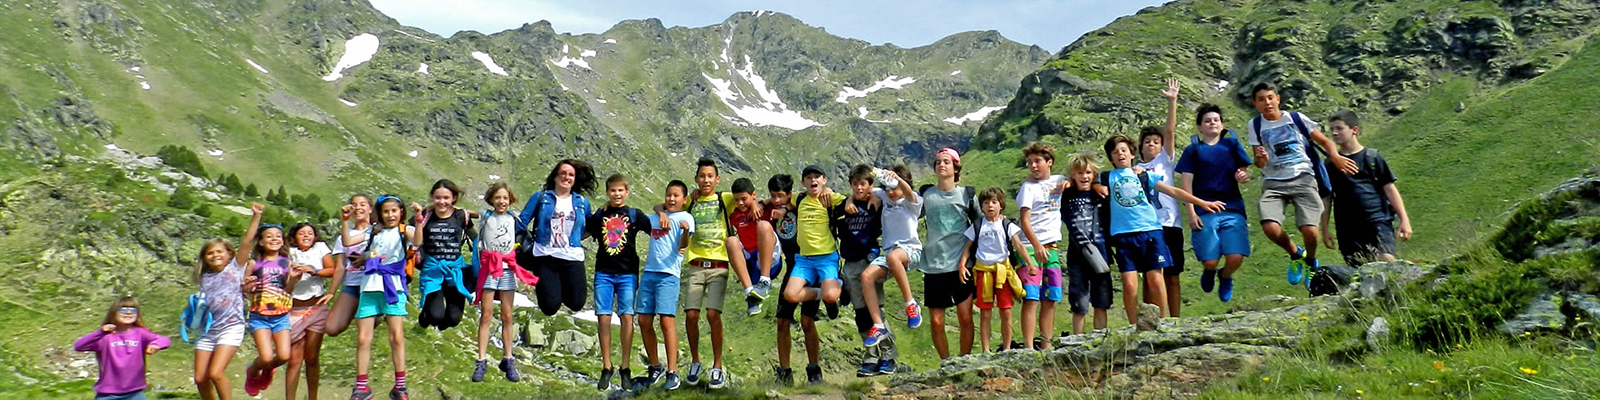
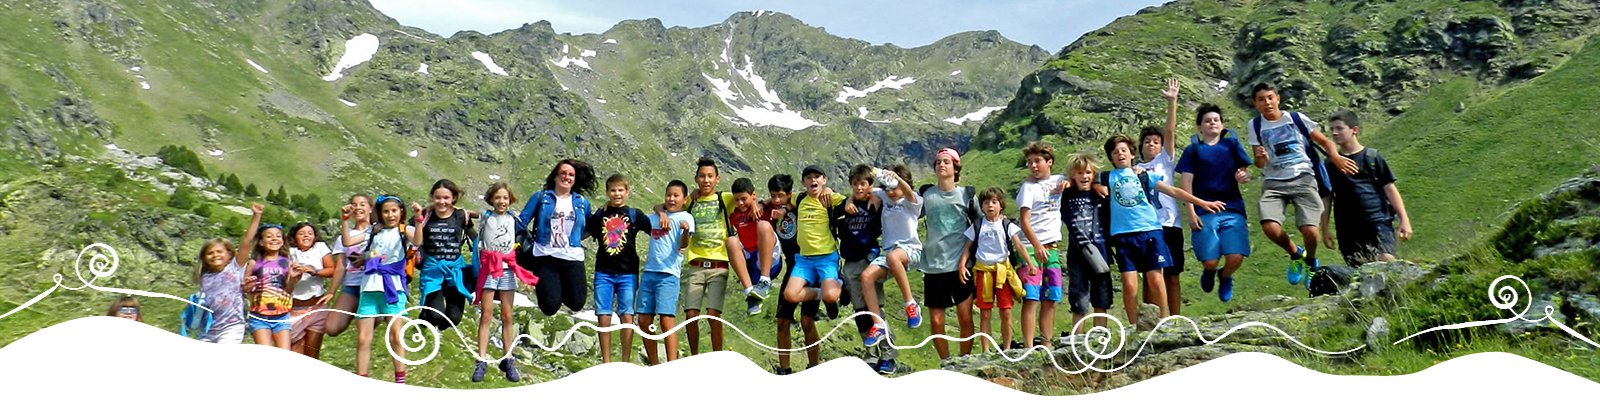
Arreglos frontend

diff --git a/public/frontend/css/main.css b/public/frontend/css/main.css
@@ -398,6 +398,50 @@ Author URL: http://shapebootstrap.net
 
 
 
+ @media (min-width: 768px) and (max-width: 992px) { 
+
+   .rulo_slider {
+    
+   
+    
+    top: 390px;
+    z-index: 2000;
+    
+   
+
+    position: absolute;
+    
+} 
+
+   
+  
+} 
+
+
+ @media (min-width: 993px) { 
+
+  
+
+   .rulo_slider {
+    
+   
+    
+    top: 322px;
+    z-index: 2000;
+    
+   
+
+    position: absolute;
+    
+}
+  
+} 
+
+
+
+
+
+
 
 @media(min-width:767px ){
 
@@ -414,7 +458,17 @@ font-size:60px;
 .video-section h3{
 font-size: 25px;
 
+
 }
+
+
+
+
+
+
+
+
+
   
 
 
@@ -451,10 +505,38 @@ font-size: 25px;
 
 
 
+
+
+
     
   
  
 }
+
+@media (min-width:555px){
+  .sliderTitle2{
+      font-size: 60px;
+  }
+
+  .sliderTitle3{
+      font-size: 45px;
+  }
+}
+
+
+@media (max-width:554px){
+  .sliderTitle2{
+      font-size: 35px;
+  }
+
+  .sliderTitle3{
+      font-size: 35px;
+  }
+}
+
+
+
+
 
 @media(max-width:550px ){	
  
@@ -463,6 +545,8 @@ font-size: 25px;
 .redessocial{
   display: none;
 }
+
+
 
   .video-section h1{
 font-size:45px;
@@ -474,7 +558,27 @@ font-size: 18px;
 }
 
 
+
+
+
    
+
+    
+  
+ 
+}
+
+
+@media(max-width:767px ){	/* este vale */
+ .rulo_slider {
+
+  position: relative;
+    top: -210px;
+    z-index: 4;
+
+}
+
+
 
     
   
@@ -2418,19 +2522,54 @@ margin: 0px auto 15px;
     -moz-text-shadow: 1px 1px 1px #000;
     }
 
+    .sliderTitle2 {
+    position: relative;
+    top: -280px;
+    z-index: 4;
+    padding-left: 50px;
+    padding-top: 25px;
+    margin: 0 auto;
+
+    pointer-events: none;
+    font-family: BreePeruWeb,Arial;
+
+    color:#fff;
+    font-weight:bold;
+    
+    text-shadow: 3px 3px 3px #000;
+    -webkit-text-shadow: 1px 1px 1px #000;
+    -moz-text-shadow: 1px 1px 1px #000;
+    }
+
+
+    .sliderTitle3 {
+    position: relative;
+    top: -280px;
+    z-index: 4;
+    padding-left: 50px;
+    padding-top: 25px;
+    margin: 0 auto;
+
+    pointer-events: none;
+    font-family: BreePeruWeb,Arial;
+
+    color:#fff;
+    font-weight:bold;
+    
+    text-shadow: 3px 3px 3px #000;
+    -webkit-text-shadow: 1px 1px 1px #000;
+    -moz-text-shadow: 1px 1px 1px #000;
+    }
+
 .rulo_slider {
     display: block;
     height: 162px;
     width: 100%;
-    position: relative;
-    top: 322px;
-    z-index: 2000;
-    
     margin: 0 auto;
     pointer-events: none;
     bottom: -1px !important;
-    height: 162px;
-    position: absolute !important;
+
+  
     
 }
 

diff --git a/resources/views/frontend/Material.blade.php b/resources/views/frontend/Material.blade.php
@@ -4,6 +4,21 @@
 
 @endsection
 
+@section('header')
+
+<div class='oculto'>
+
+<img src="{{url('frontend/images/material.jpg')}}" alt="">
+
+
+<p class="sliderTitle2"> Material Turístico </p>
+
+
+
+
+
+@endsection
+
 @section('contenido')
 
 @foreach($material as $item)

diff --git a/resources/views/frontend/Preguntas.blade.php b/resources/views/frontend/Preguntas.blade.php
@@ -4,6 +4,22 @@
 
 @endsection
 
+@section('header')
+
+<div class='oculto'>
+
+<img src="{{url('frontend/images/faq.jpg')}}" alt="">
+
+
+<p class="sliderTitle3"> Preguntas Frecuentes </p>
+
+
+
+
+
+@endsection
+
+
 @section('contenido')
 
 <p> Preguntas Frecuentes </p>

diff --git a/resources/views/frontend/Traer.blade.php b/resources/views/frontend/Traer.blade.php
@@ -13,10 +13,7 @@
 
 <p class="sliderTitle"> ¿Qué traer? </p>
 
-<div class="rulo_slider" style="background: url({{url('frontend/images/Rulos.png')}})";></div>
 
-
-</div>
 
 
 

diff --git a/resources/views/layouts/base.blade.php b/resources/views/layouts/base.blade.php
@@ -208,7 +208,7 @@
 
    @yield('header')
  
-<div class="container" style=" padding-top: 25px;">
+<div class="container">
 
  
 
